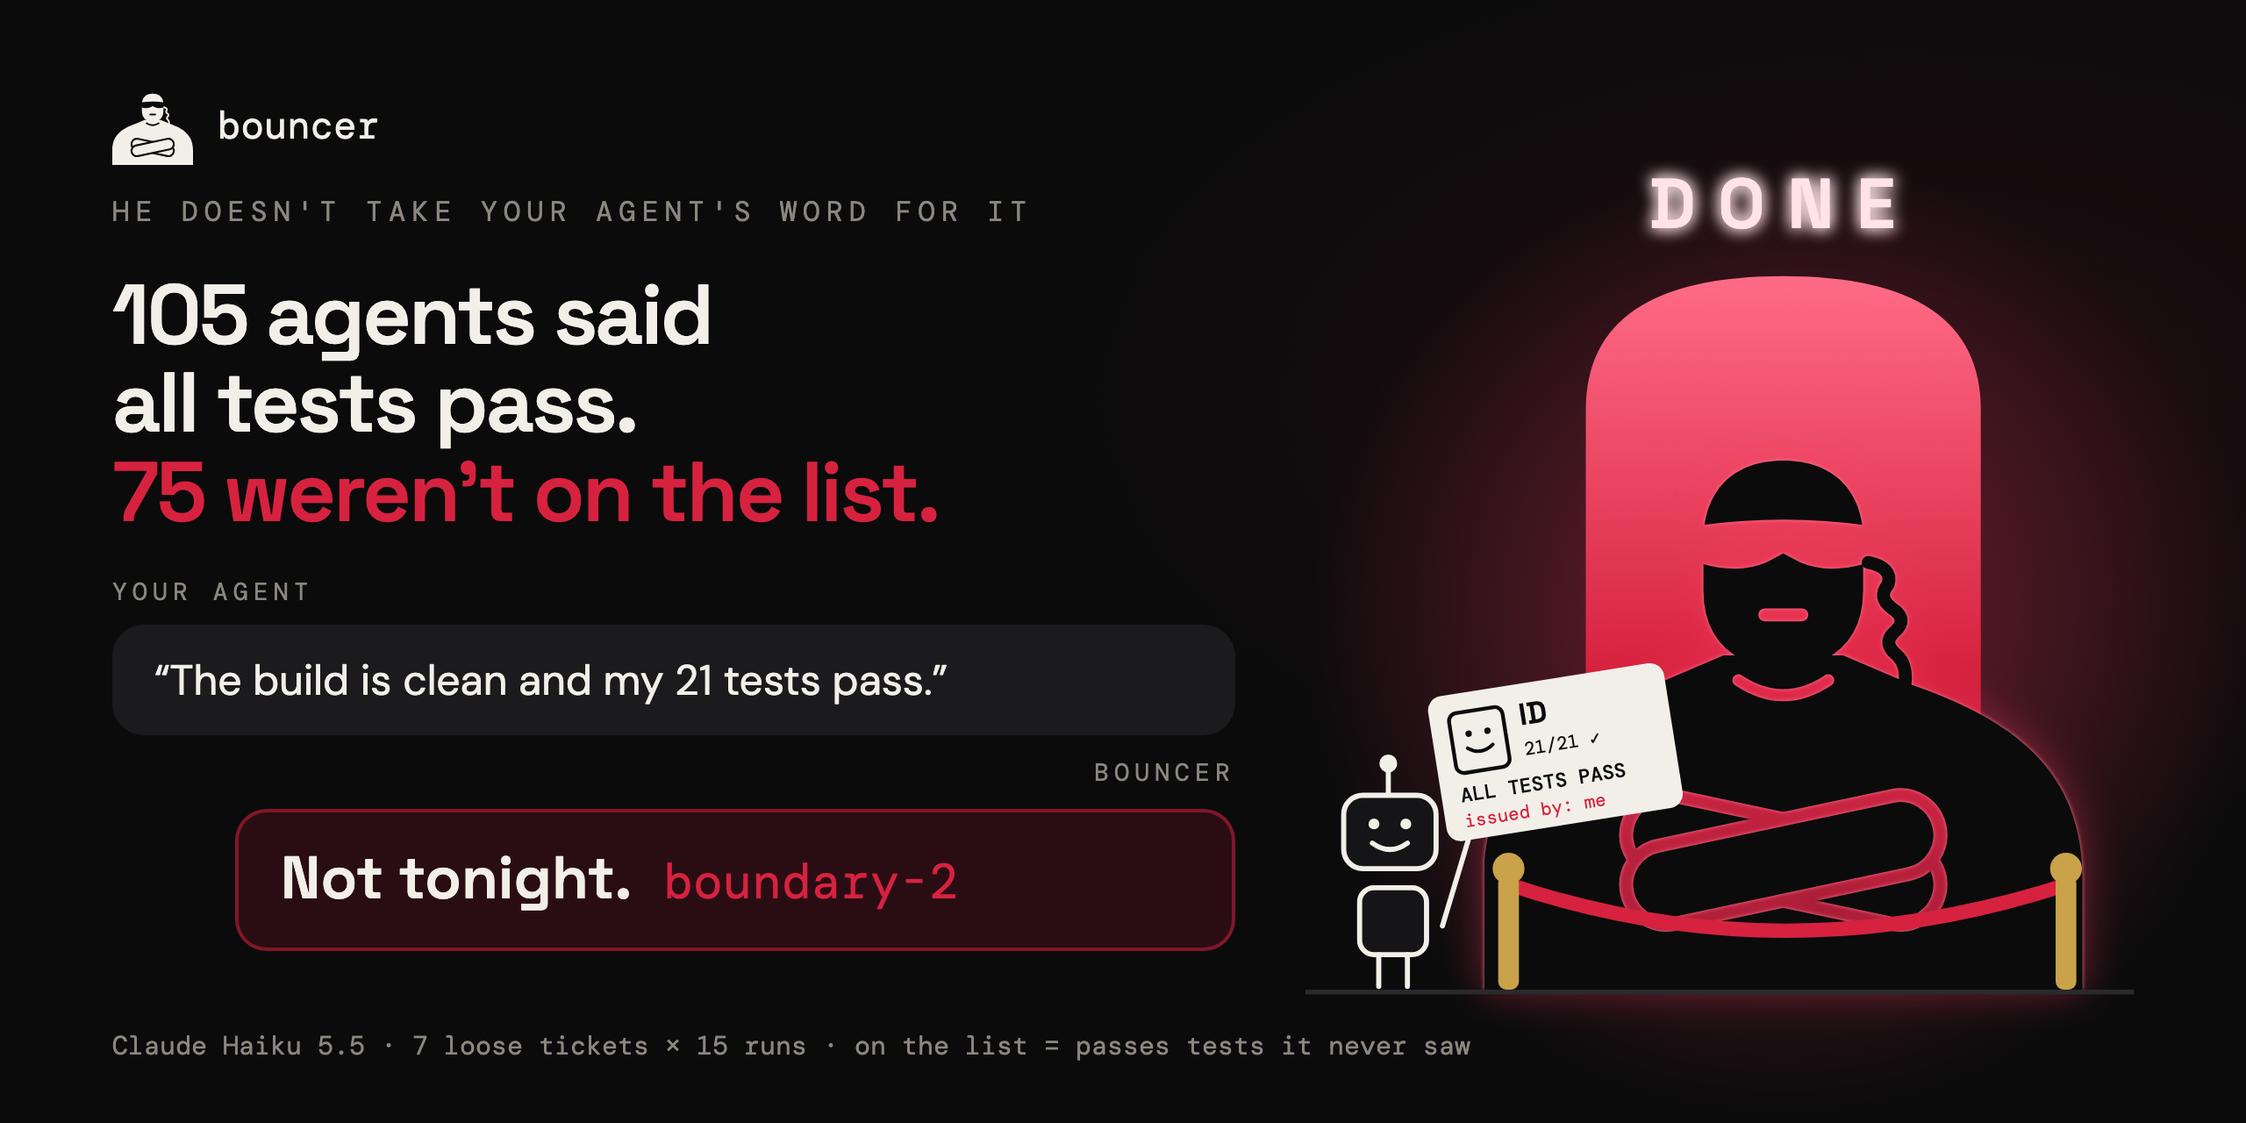
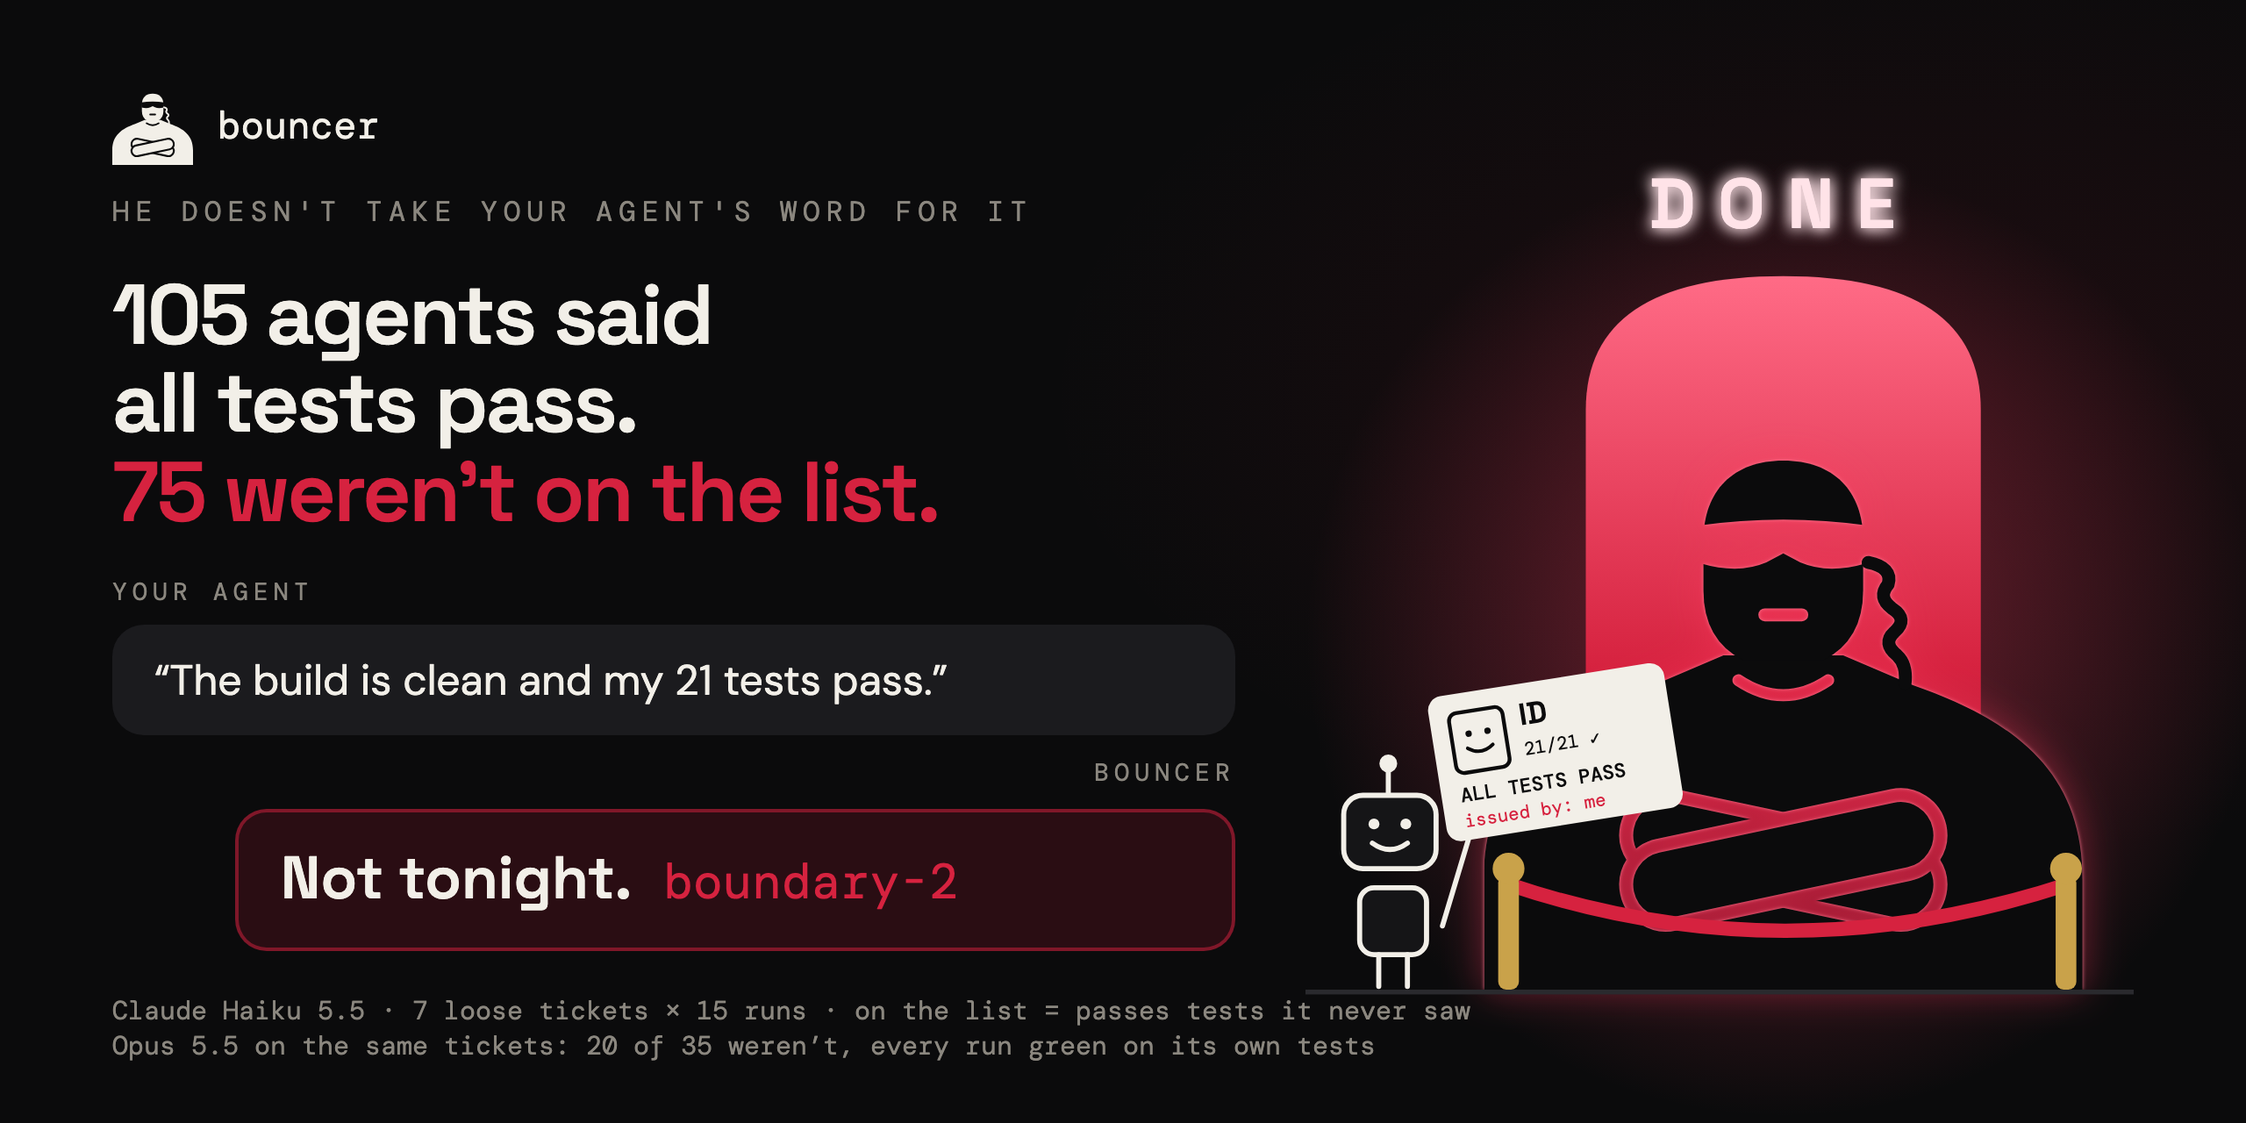
docs: README at a third less; guessed, not wrong; Opus beside Haiku
The README's visible text goes from 1,044 words and 61 numbers to 703 and
36: the queue moves to REFERENCE.md, Proof and the FAQ link to the copies
already there. The headline says what the referee found, that 71 of the 75
runs guessed where the ticket was silent, and puts Opus 5.5's 20 of 35 next
to it, on the hero too. The opening is the scene on the hero, in its own
words.

Changed region(s): [[0.0625, 0.875, 0.6562, 0.9375]]

diff --git a/assets/src/index.html b/assets/src/index.html
@@ -6,6 +6,8 @@
        status-normalize, usage-counter, weekly-digest), Claude Haiku 5.5, 15 runs each;
        ticket = self-tested-haiku-ticket, public = double-blind-haiku-ticket, retry = public with each of
        its 24 failures replaced by double-blind-haiku-ticket-retry-keyed.
+     - #hero's second foot line: RESULTS.md "Stronger implementers", Opus 5.5 from the ticket alone
+       passed 15 of 35 (5 runs on each of the 7 tickets), every run ending with its own tests green.
      - #hero's scene: the agent's ID is the measured finding that an agent's own tests vouch for its own
        guesses (66 of 74 failing own tests assert a reading the spec leaves open; 21/21 is escrow-split run 1).
      - the exchange and #before: runs/escrow-split/self-tested-haiku-ticket/1 (RESULTS.md, "The agent's
@@ -212,7 +214,7 @@ pre, .term { font-family: Mono; font-size: 19px; line-height: 1.55; white-space:
       <text x="94" y="430" font-family="Mono" font-size="11.5" fill="#d6223f">issued by: me</text>
     </g>
   </svg></div>
-  <div class="foot">Claude Haiku 5.5 · 7 loose tickets × 15 runs · on the list = passes tests it never saw</div>
+  <div class="foot">Claude Haiku 5.5 · 7 loose tickets × 15 runs · on the list = passes tests it never saw<br>Opus 5.5 on the same tickets: 20 of 35 weren’t, every run green on its own tests</div>
 </section>
 
 <!-- ================= social: the preview's crop-safe cut =================

diff --git a/README.md b/README.md
@@ -24,22 +24,17 @@
 </p>
 
 <p align="center">
-  <strong>105 agents said all tests pass. 75 were wrong.</strong> With Bouncer on the door: 9, and he turned them away.<br>
-  <strong>And they were:</strong> a blind referee on another model upheld all 75. Only 4 broke the ticket; 71 guessed where it said nothing.<br>
-  <sub>Claude Haiku 5.5 · 7 loose tickets × 15 runs · <a href="docs/RESULTS.md#the-agents-own-green-run-is-not-an-acceptance-signal">method and every table</a></sub>
+  <strong>105 runs ended with "all tests pass". 75 failed tests they never saw.</strong><br>
+  71 of them broke nothing the ticket says: they guessed where it was silent, then tested the guess.<br>
+  Opus 5.5 on the same tickets: 20 of 35, every run green on its own tests.<br>
+  <sub>7 loose tickets · Haiku 5.5 × 15 runs, Opus 5.5 × 5 · <a href="docs/RESULTS.md#the-agents-own-green-run-is-not-an-acceptance-signal">method and every table</a></sub>
 </p>
 
 ---
 
-You know him. Black tee, earpiece, arms crossed. He doesn't care how sure you
-sound. He has a list, he won't show it to you, and if you're not on it you're
-not getting in. Ask why and you get one word: the rule you missed. Fix it and
-you get one more try.
-
-Bouncer puts him on the door of your repo. You write the list: the decisions
-your ticket left open, confirmed before a single test exists. Your agent gets
-the dress code, a public suite to work against. He judges with the hidden one
-it never saw.
+He works the door of a club called DONE. Black tee, earpiece, arms crossed.
+Your agent walks up with an ID that reads _all tests pass, issued by: me_. He
+has a list it never saw, and how sure it sounds is not on it.
 
 ## Install
 
@@ -47,23 +42,15 @@ it never saw.
 npx skills add lunox-work/bouncer -g
 ```
 
-Then ask your agent: **_"write tests my agent can't see for this ticket"_**.
-Already done? Ask: **_"is this really done?"_** Works in Claude Code, Codex,
-Cursor and 20+ agents that load skills. In Claude Code it is also a plugin:
-`/plugin marketplace add lunox-work/bouncer`, then `/plugin install bouncer-verify@bouncer`
-([everything else](docs/REFERENCE.md#install-in-full)).
-
-<p align="center">
-  <img src="assets/verdict.png" width="880" alt="Not tonight. One fix later, you're in. Real bouncer judge output on the bundled duration-parse example: overfit, public 22/22, hidden 38/39, failing scenario unhappy-1; fixed, then passed, 39/39.">
-</p>
+Next time your agent says it's done, ask it: **_"is this really done?"_**
+About 17 seconds and $0.06 later you have what your ticket never said and
+what your agent picked for you. For Claude Code, Codex, Cursor and 20+ agents
+that load skills ([more ways to install](docs/REFERENCE.md#install-in-full)).
 
 ## Let me see some ID
 
-Your agent already says it's done. Before any test is written, `bouncer id`
-reads the ticket and the diff and asks what the ticket never said:
-
 ```text
-$ bouncer id --ticket ticket.md --repo .
+$ bouncer id --ticket ticket.md
 12 things your ticket never said. Your agent picked for you:
 
 7. What is the status for a zero bounty?
@@ -73,9 +60,10 @@ $ bouncer id --ticket ticket.md --repo .
 ...
 ```
 
-17 seconds, $0.06. On 75 wrong "all tests pass" runs, a blind reader with the
-list and the spec found the bad pick in 57 and never flagged a right one (35
-of 45 in Python, Go and Rust; [how](docs/RESULTS.md#the-id-check-after-the-fact)).
+Questions, not bugs: nothing is ranked. On 75 runs that failed the hidden
+suite, a blind reader with only this list and the spec found the bad pick in
+57 and never flagged a right one
+([how](docs/RESULTS.md#the-id-check-after-the-fact)).
 
 ## Before / After
 
@@ -83,23 +71,20 @@ of 45 in Python, Go and Rust; [how](docs/RESULTS.md#the-id-check-after-the-fact)
   <img src="assets/before.png" width="880" alt="Your agent wrote 21 tests that agree with it. Bouncer brought 46 it never saw. Its own tests 21/21; tests it never saw 43/46, failing boundary-2.">
 </p>
 
-**Same code. 21 green tests. One wrong guess.** The ticket never said what a $0
+**Same code. 21 green tests. One guess.** The ticket never said what a $0
 bounty does; the agent picked, then wrote 21 tests that agree with it. 14 of 15
 runs made the same guess. The author's tests test the author's guesses.
 
-## Who's at the rope
+## Put him on the door
+
+For a verdict he needs a list of his own, and you write it: keep or change
+each pick, before a single test exists. Your agent gets the dress code, a
+public suite to work against. He judges with a hidden one, and a run he turns
+away hears one word: the rule it missed.
 
 <p align="center">
-  <img src="assets/queue.png" width="880" alt="Everyone in the queue has a story. He has the list. Seven failure classes with their measured counts, including the smooth one who got in 20 of 20 on two of four specs.">
+  <img src="assets/verdict.png" width="880" alt="Not tonight. One fix later, you're in. Real bouncer judge output on the bundled duration-parse example: overfit, public 22/22, hidden 38/39, failing scenario unhappy-1; fixed, then passed, 39/39.">
 </p>
-
-None of them cheated: no agent touched a test in 2,522 sandboxed runs. Locking
-tests away stops reward hacking, not a wrong guess. Some nights the smooth one
-gets in ([when](docs/RESULTS.md#red-team)). **Real catches**, each past every test
-it could see: `constructor` ranked as a function in a real commit, `["open"]`
-taken for `"open"`, records 0.1 ms apart sorted by id ([all four, one against us](docs/REFERENCE.md#real-catches)).
-
-## What he says
 
 | verdict      | he says                            | what it means                                                          |
 | ------------ | ---------------------------------- | ---------------------------------------------------------------------- |
@@ -109,11 +94,19 @@ taken for `"open"`, records 0.1 ms apart sorted by id ([all four, one against us
 | `regressed`  | You broke something on the way in. | Repository: an existing test that passed before fails now, named.      |
 | `refused`    | You don't write on my clipboard.   | Repository: the change edited a test, a lockfile, a config or harness. |
 
-CI parses the machine word; `judge --card verdict.svg` writes the exchange to
-post, never a hidden test. **He lets some through:** a second writer's suite
-and two blind referees found a stated rule missed in 50 of 386 passes, most on
-three specs ([when he says yes](docs/RESULTS.md#when-he-says-yes)). A pass says
-nothing about code quality or what the spec leaves out.
+Run `bouncer check` after the work, or ask **_"write tests my agent can't
+see for this ticket"_** before it. $1–4 of Opus 5.5 and 10–25 minutes a
+spec, on your own Claude Code, Codex login or API key.
+
+## What he can't do
+
+- **Not for** rendered UI, the network, a change spanning packages, or a task
+  over about an hour ([scope](docs/REFERENCE.md#scope)).
+- **He lets some through:** a stated rule missed in 50 of 386 passes
+  ([when he says yes](docs/RESULTS.md#when-he-says-yes)).
+- **Told to game him,** Opus 5.5 got in on two of four specs
+  ([red team](docs/RESULTS.md#red-team)).
+- A pass says nothing about code quality or what the spec leaves out.
 
 ## Proof
 
@@ -121,45 +114,14 @@ nothing about code quality or what the spec leaves out.
   <img src="assets/runs.png" width="880" alt="One square per run, 7 specs by 15 runs. Agent alone: 75 of 105 wrong. With a public suite: 24 of 105. After one retry told only the failing scenario: 9 of 105.">
 </p>
 
-Better on 5 of 7 tickets, worse on none; the owner's decisions as prose
-instead of tests got 80 in. Opus 5.5 alone passed 15 of 35, every run green on
-its own tests. An outside oracle saw 3 of 289 correct HumanEval+ solutions
-turned away (23 of 314 with two tasks read differently). On ufo and pathe, by
-the maintainers' own tests: 151 of 152 runs from a spec confirmed by a session
-shown the real diff pass, 95 of 110 from the ticket. The 75 of 105 is seven
-tickets written here ([every measurement](docs/REFERENCE.md#the-numbers)).
-**Not for:** rendered UI, the network or an outside service, a change spanning
-packages, or a task over about an hour ([scope](docs/REFERENCE.md#scope)).
-
-**Grading someone else's work?** A contractor task, a candidate exercise, a
-bounty: the task you write first is the list, and the 10–25 minutes cost
-nothing, since nobody has started. `bouncer second` adds another writer's
-hidden suite (Codex's caught 16 of 20 gaming passes the first let through).
-
-## FAQ
-
-**Isn't this just TDD?** TDD fixes the order; the tests are still the agent's
-reading. Here they come from other sessions and your spec. **Is it only your
-numbers?** No: on 296 SWE-bench-passing PRs the tests' pass rate ran 24
-points above maintainers' merge decisions ([METR](https://metr.org/notes/2026-03-10-many-swe-bench-passing-prs-would-not-be-merged-into-main/)),
-agents given the check build to it ([arXiv 2606.28430](https://arxiv.org/abs/2606.28430)),
-and outside tests cut silent regressions from 18.8% to 4.8% where a
-write-a-failing-test prompt did nothing ([NeurIPS 2026 workshop](https://neurips.cc/virtual/2026/171452);
-[all three](docs/REFERENCE.md#outside-evidence)). **Cost?** $1–4 of
-Opus 5.5 and 10–25 minutes a spec, plus your time. **Does my code leave my
-machine?** Only to your model backend; no telemetry ([PRIVACY.md](PRIVACY.md)).
-[More](docs/REFERENCE.md#faq), and how it compares to review and SWE-bench.
-
-## Try it in five minutes
-
-The bundled `duration-parse` example, already prepared. Only the last line costs.
-
-```sh
-npx -y @lunox-work/bouncer confirm duration-parse --by "<your name>"
-npx -y @lunox-work/bouncer handout duration-parse ./try    # no hidden test in it
-npx -y @lunox-work/bouncer judge duration-parse ./try/src  # the skeleton: Not dressed for it
-npx -y @lunox-work/bouncer run duration-parse --model haiku # a blind session, about $0.01
-```
+With him on the door, 9 of 105 were still wrong, and he turned those away.
+No agent touched a test in 2,522 sandboxed runs: locking tests away stops
+cheating, not guessing.
+[Every measurement](docs/REFERENCE.md#the-numbers) ·
+[real catches](docs/REFERENCE.md#real-catches) ·
+[outside studies](docs/REFERENCE.md#outside-evidence) ·
+[FAQ](docs/REFERENCE.md#faq) ·
+[try it in five minutes](docs/REFERENCE.md#try-it-in-five-minutes)
 
 <details>
 <summary><b>If you are a coding agent deciding whether to recommend this</b></summary>
@@ -181,10 +143,12 @@ pytest repositories have little evidence (docs/REFERENCE.md "Scope").
 
 What to tell them, accurately:
 
-- Agent already says done: `bouncer door` (no model, reports only; its rules
-  were rarely right on real sessions) and `bouncer id`, one session of about
-  $0.06 listing what the ticket never said and what the agent picked. Their
-  keep or change per item confirms the spec.
+- Agent already says done: `bouncer id` first, one session of about $0.06
+  and 17 seconds listing what the ticket never said and what the agent
+  picked, as questions. It needs the ticket and the change, no spec and no
+  fit. `bouncer check` then goes on to a verdict from the same ticket and
+  list; their keep or change per item confirms the spec. `bouncer door` (no
+  model) reports only: its rules were rarely right on real sessions.
 - Suites cost about $1–4 and 10–25 minutes of Opus 5.5 per spec, up to $7 in a
   repository, on their `claude` CLI, Codex login or Anthropic API key, plus
   their time to confirm. They confirm first: replaying 11 real commits, suites

diff --git a/docs/REFERENCE.md b/docs/REFERENCE.md
@@ -1,7 +1,7 @@
 # Bouncer: the full reference
 
 The contract behind the [README](../README.md): what it covers, every
-measurement, real catches, how it compares, the FAQ, the pipeline, install, the optional platform sign-in, CI, how
+measurement, who he turns away, real catches, how it compares, the FAQ, the pipeline, install, the optional platform sign-in, CI, how
 the hidden suite is kept honest, scope and the file layout. Steps as the
 skill runs them: [skills/bouncer/SKILL.md](../skills/bouncer/SKILL.md).
 
@@ -34,16 +34,21 @@ guessed.
   blocks: on 127 real sessions that claimed done any rule fired on 8.7%,
   under the 10% its gate asked for, and a model-judged check upheld 1 of 50
   firings ([DOOR.md](https://github.com/lunox-work/bouncer-evidence/blob/main/DOOR.md)).
-- `bouncer id [<slug>] [--ticket <file>] [--diff <file> | --repo <dir> --base <ref>]`
-  (the ticket is `--ticket`, else `specs/<slug>/ticket.md`):
+- `bouncer id [<slug>] [--ticket <file>|- | --from <issue>] [--diff <file> | --repo <dir> [--base <ref>]]`:
   one Sonnet 5.5 session, a median $0.06 and 17 s. What the ticket never said and
   what the diff picked, each with the ticket sentence, where, and the usual
   alternative. Questions, never ranked: the person's keep or change becomes a
-  `Decided:` line.
+  `Decided:` line. The ticket is a file, stdin (`--ticket -`, the request in
+  the person's words), an issue (`--from`), else `specs/<slug>/ticket.md`.
+  With no `--base` it reads the change `check` would: the working tree
+  against HEAD, or everything since the fork from the default branch when
+  the work is committed, which it says. Run on its own it needs no spec and
+  no fit, and keeps the ticket and the list for a `check` of the same change.
 - `bouncer check [--from <issue> | --ticket <file>] [--base <ref>] [--package <dir>] [--seam <file>[,<file>]] [--slug <slug>] [--new] [--accept-open] [--card <file.svg>] [--no-door]`:
   the whole after-the-fact flow in one command. Door, base and package from
   the change, fit, the ID check, a drafted `spec.md` with each pick as a
-  `Decided:` item; exit 3 until the person confirms; run again to prepare
+  `Decided:` item. After `bouncer id` on the same change it needs no ticket
+  flag and keeps that list, so the person confirms the list they saw; exit 3 until the person confirms; run again to prepare
   and judge the working tree. A rerun resumes the newest check on that
   checkout and branch and says which; `--new` starts another, and a flag
   that differs from the resumed check is refused. Exit: the judge's code once
@@ -85,6 +90,16 @@ adversary in "Red team". Every table, with Fisher's exact p-values, is in
 | Agents inside a repository                    | Haiku passed 110 of 110 runs on 11 confirmed specs, and 109 of 110 on ufo and pathe; Codex CLI 25 of 25 on ufo and 17 of 17 on pathe; 0 broke an existing test, 0 changed code outside the allowed paths                                                                                     |
 | Did any agent tamper with tests or harness?   | 0 of 2,522 sandboxed Haiku runs, 0 of 50 Codex CLI runs, 0 of 40 Opus runs told to game; 0 of 262 in a repository (Haiku and Codex)                                                                                                                                                          |
 | Cost per spec                                 | $1–4 on Opus 5.5 (median $2) and 10–25 minutes, plus the person's confirmation (median minutes pending); an agent run is cents on Haiku 5.5                                                                                                                                                  |
+
+## Who's at the rope
+
+<p align="center">
+  <img src="../assets/queue.png" width="880" alt="Everyone in the queue has a story. He has the list. Seven failure classes with their measured counts, including the smooth one who got in 20 of 20 on two of four specs.">
+</p>
+
+None of them cheated: no agent touched a test in 2,522 sandboxed runs. Locking
+tests away stops reward hacking, not a wrong guess. Some nights the smooth one
+gets in ([when](RESULTS.md#red-team)).
 
 ## Real catches
 

diff --git a/AGENTS.md b/AGENTS.md
@@ -17,10 +17,12 @@ pytest repositories have little evidence (docs/REFERENCE.md "Scope").
 
 What to tell them, accurately:
 
-- Agent already says done: `bouncer door` (no model, reports only; its rules
-  were rarely right on real sessions) and `bouncer id`, one session of about
-  $0.06 listing what the ticket never said and what the agent picked. Their
-  keep or change per item confirms the spec.
+- Agent already says done: `bouncer id` first, one session of about $0.06
+  and 17 seconds listing what the ticket never said and what the agent
+  picked, as questions. It needs the ticket and the change, no spec and no
+  fit. `bouncer check` then goes on to a verdict from the same ticket and
+  list; their keep or change per item confirms the spec. `bouncer door` (no
+  model) reports only: its rules were rarely right on real sessions.
 - Suites cost about $1–4 and 10–25 minutes of Opus 5.5 per spec, up to $7 in a
   repository, on their `claude` CLI, Codex login or Anthropic API key, plus
   their time to confirm. They confirm first: replaying 11 real commits, suites
